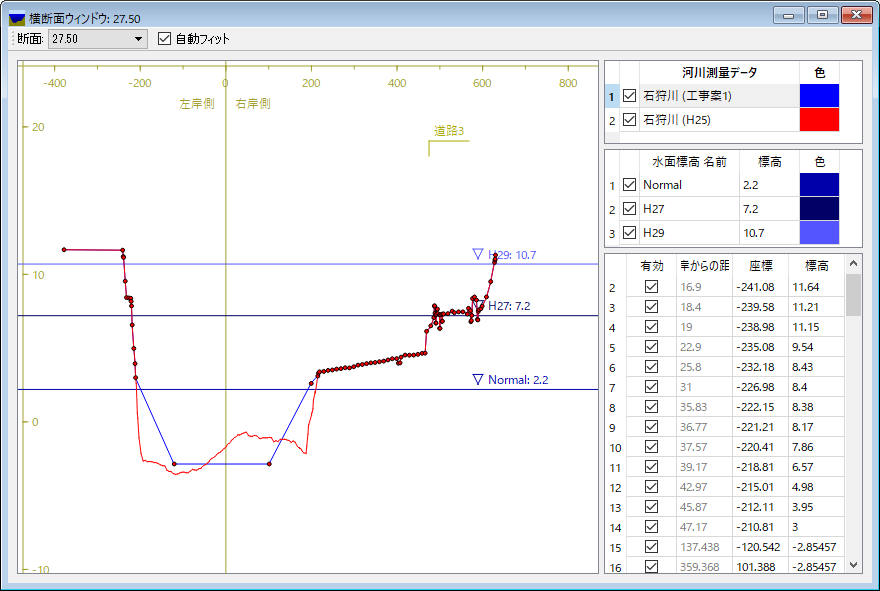
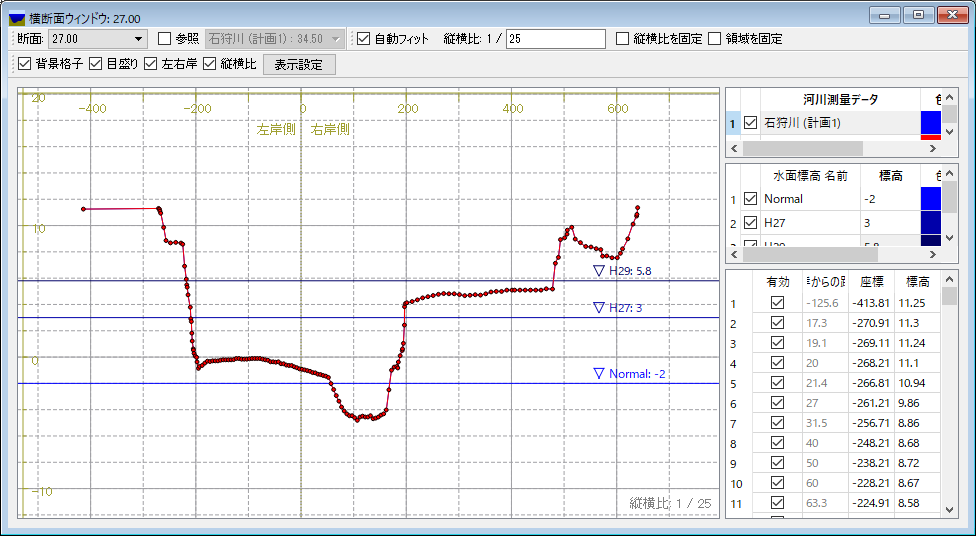
Xsec window description updated

diff --git a/source/04/04/02_riv_data.rst b/source/04/04/02_riv_data.rst
@@ -485,6 +485,49 @@
      - 削除 (D)
      - 選択した標高点を削除します
 
+
+ツールバーの機能
+~~~~~~~~~~~~~~~~
+
+河川横断面ウィンドウの上部に表示されるツールバーの機能を :numref:`geo_river_data_xsec_window_toolbaritems_table` に示します。
+
+.. _geo_river_data_xsec_window_toolbaritems_table:
+
+.. list-table:: 河川横断面ウィンドウのツールバーの機能
+   :header-rows: 1
+
+   * - 項目
+     - 説明
+   * - 断面
+     - 表示する断面を切り替えます
+   * - 参照
+     - 「断面」で選択した以外の断面を、参照用情報として表示します。コンボボックスで、表示する断面を選びます。
+   * - 自動フィット
+     - チェックされていると、「断面」で表示断面を切り替えた時、新しい断面が画面中央に表示されるよう自動で表示範囲が変更されます。
+   * - 縦横比
+     - 現在の縦横比が表示されます。編集して画面の縦横比を変更することもできます。
+   * - 縦横比を固定
+     - チェックすると、 Ctrl + マウス中ボタンの操作が、縦横比を固定したままでの拡大・縮小操作になります。
+   * - 領域を固定
+     - チェックすると、 Ctrl + マウス中ボタン、Ctrl + マウス左ボタンでの表示範囲変更操作が無効になります。
+   * - 背景格子
+     - 背景格子の ON/OFF を切り替えます。
+   * - 目盛り
+     - 画面の左端、上端の目盛りの ON/OFF を切り替えます。
+   * - 左右岸
+     - 画面上部の「左岸側」と「右岸側」の ON/OFF を切り替えます。
+   * - 縦横比
+     - 画面右下の縦横比の ON/OFF を切り替えます。
+   * - 表示設定
+     - 河川横断面ウィンドウの表示設定ダイアログ (:numref:`image_xsec_window_setting_dialog` 参照) を表示します。
+
+.. _image_xsec_window_setting_dialog:
+
+.. figure:: images/xsec_window_setting_dialog.png
+   :width: 300pt
+
+   断面ウィンドウ表示設定ダイアログ
+
 有効化(A)
 ~~~~~~~~~~~
 
